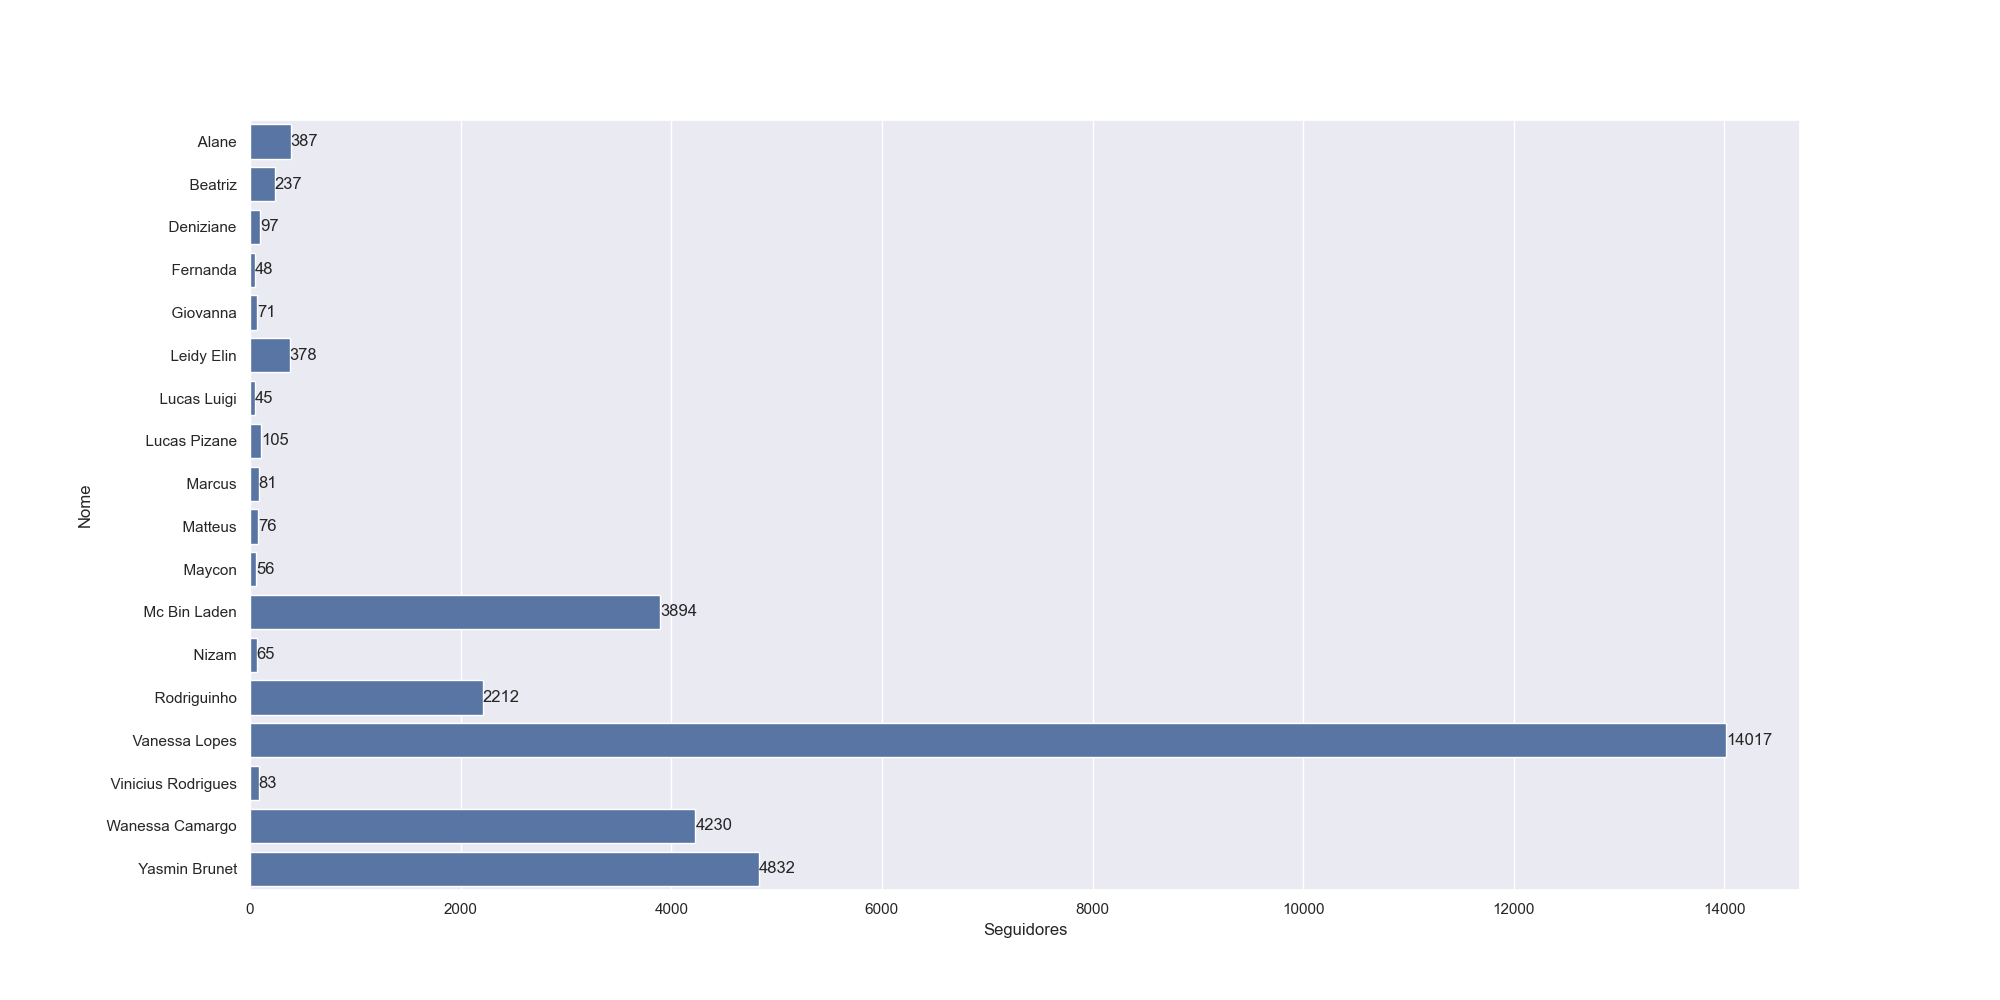
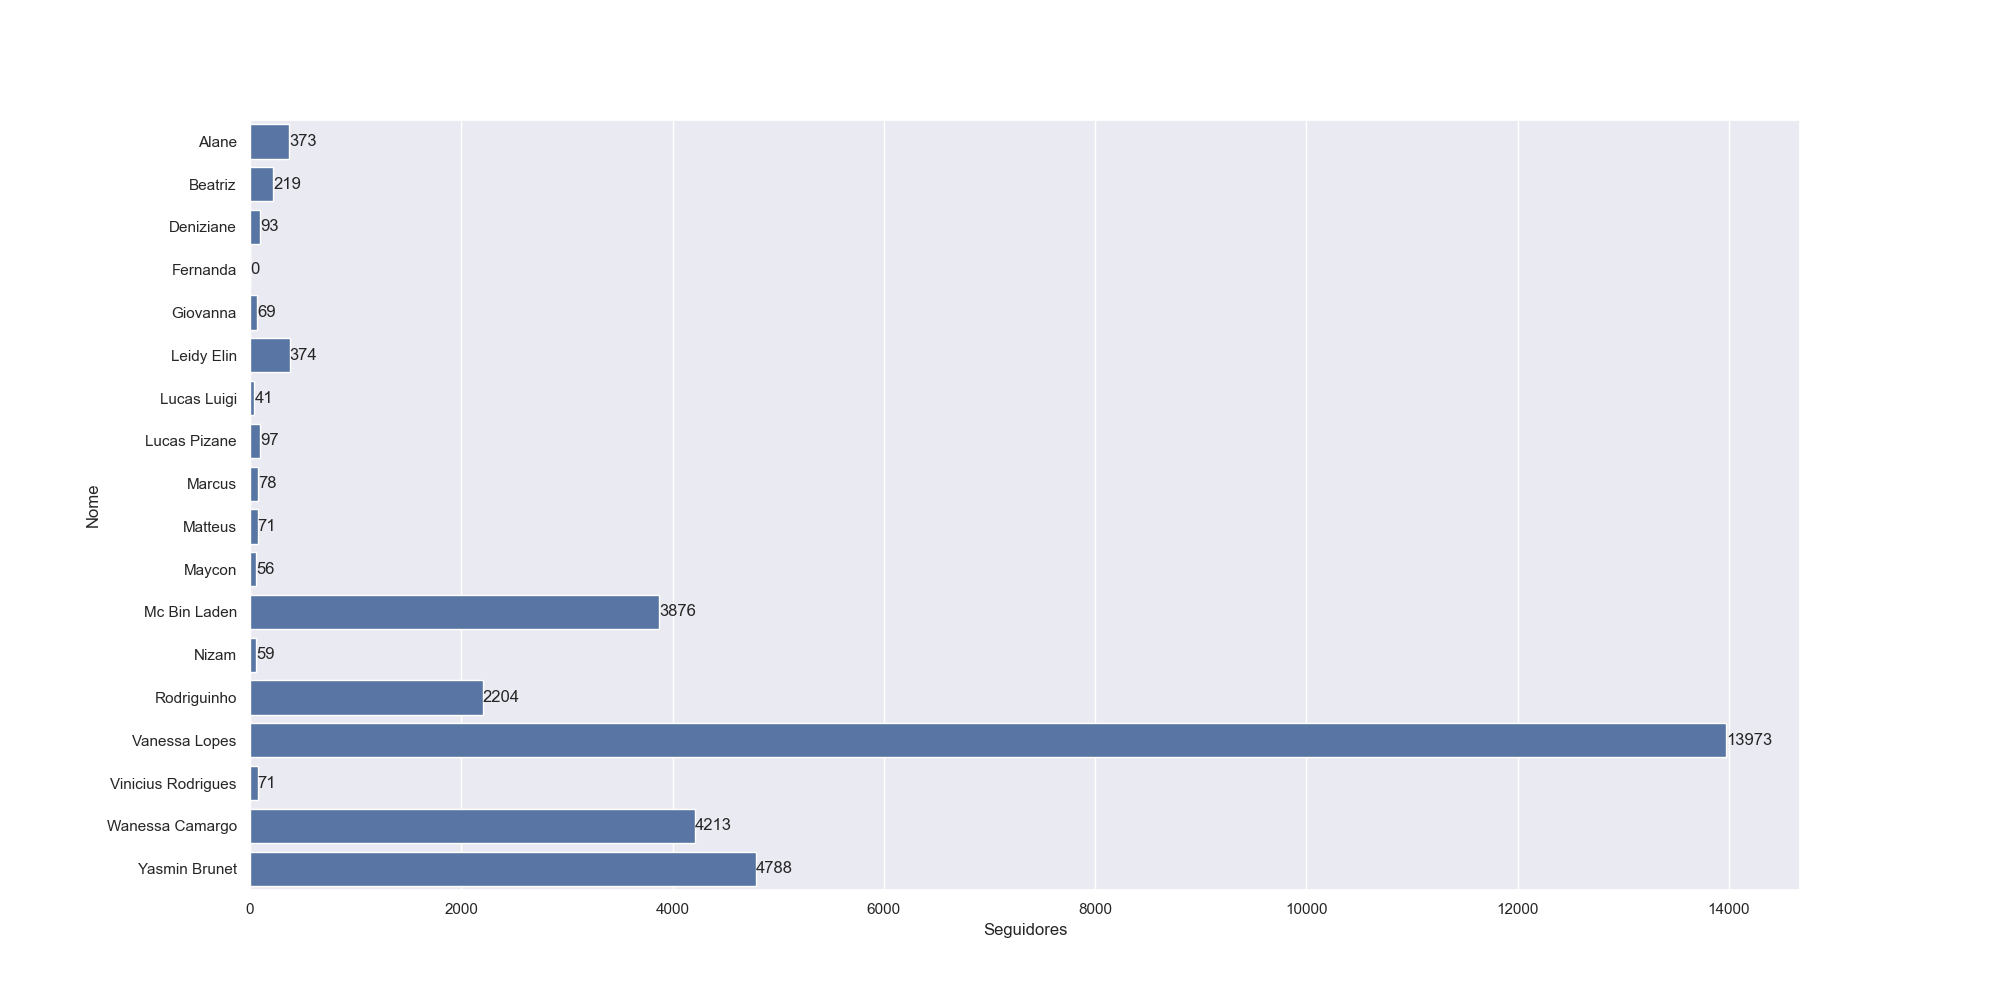
fix: correção dados incorretos

diff --git a/utils/feed_database.py b/utils/feed_database.py
@@ -16,8 +16,8 @@ def create_dataframe(current_date, brothers):
         new_df = pd.DataFrame(list(map(lambda b: [b.Id, b.Name, b.Followers], brothers)))
         df[current_date] = new_df[2]
     else:
-        df = pd.DataFrame(list(map(lambda b: [b.Id, b.Name, b.Followers], brothers)))
-        df.columns = ['Id', 'Nome', current_date]
+        df = pd.DataFrame(list(map(lambda b: [b.Id, b.Name.strip(), b.Followers], brothers)))
+        df.columns = ['Id', 'Nome', '2024-01-08']
 
     print(df)
     return df
@@ -42,10 +42,10 @@ def write_documents(current_date, brothers, dataframe, graphic_figure):
     graphic_figure.savefig(f'../data/bbb_instagram.png')
     with open(f'../data/bbb_instagram.txt', "w") as file:
         for item in brothers:
-            file.write(f'{item}\n')
+            file.write(f'{item.Id},{item.Name},{item.Instagram_username},{item.Followers},{item.Url_image}')
     with open(f'../backup/bbb_instagram_{current_date}.txt', "w") as file:
         for item in brothers:
-            file.write(f'{item}\n')
+            file.write(f'{item.Id},{item.Name},{item.Instagram_username},{item.Followers},{item.Url_image}')
 
 
 def execute():
@@ -53,8 +53,8 @@ def execute():
     pd.set_option('display.width', 1000)
 
     current_date = str(date.today())
-    # brothers = LoadData.load_data_file()
-    brothers = LoadData.load_data_intagram()
+    brothers = LoadData.load_data_file()
+    # brothers = LoadData.load_data_intagram()
     dataframe = create_dataframe(current_date, brothers)
     graphic_figure = create_graphic(brothers)
     write_documents(current_date, brothers, dataframe, graphic_figure)

diff --git a/config/ConfigIntagram.py b/config/ConfigIntagram.py
@@ -174,15 +174,15 @@ class ConfigInstagram:
                           '/AUTH_e84042ef78cb4708aeebdf1c68c6cbd6/internal_photos/bs/2024/T/i/YF72BOQO2QXGWky3avTA'
                           '/cabecograma-330x270-0018-2-yasmin.png'
             ),
-            # User(
-            #     id=19,
-            #     name='Gabriel Santana',
-            #     instagram_username='gbielsantana',
-            #     followers=profile.from_username(bot.context, 'gbielsantana').followers,
-            #     url_image='https://s2.glbimg.com/hnfJZ0wgKyySKyfXqlLX7CwZ7Ug=/i.s3.glbimg.com/v1'
-            #               '/AUTH_e84042ef78cb4708aeebdf1c68c6cbd6/internal_photos/bs/2023/x/p/esEdQlQPmY5U1C2KAGmQ'
-            #               '/gabriel-santana-foto-330-270-bbb23.png'
-            # ),
+            User(
+                id=19,
+                name='Gabriel Santana',
+                instagram_username='gbielsantana',
+                followers=profile.from_username(bot.context, 'gbielsantana').followers,
+                url_image='https://s2.glbimg.com/hnfJZ0wgKyySKyfXqlLX7CwZ7Ug=/i.s3.glbimg.com/v1'
+                          '/AUTH_e84042ef78cb4708aeebdf1c68c6cbd6/internal_photos/bs/2023/x/p/esEdQlQPmY5U1C2KAGmQ'
+                          '/gabriel-santana-foto-330-270-bbb23.png'
+            ),
             # User(
             #     id=20,
             #     name='Amanda',

diff --git a/utils/LoadData.py b/utils/LoadData.py
@@ -17,6 +17,6 @@ class LoadData:
             for item in file:
                 if item.strip() != '':
                     brother = item.split(',')
-                    brother = User(brother[0], brother[1], brother[2], int(brother[3]), brother[4])
+                    brother = User(brother[0], brother[1].strip(), brother[2], int(brother[3]), brother[4])
                     brothers.append(brother)
         return brothers

diff --git a/teste.py b/teste.py
@@ -2,7 +2,7 @@ from bs4 import BeautifulSoup
 
 import requests
 
-
+from controllers import user_controller
 
 #
 # print(len(imgs))
@@ -14,3 +14,5 @@ import requests
 #         # resolve any relative urls to absolute urls using base URL
 #         src = requests.compat.urljoin(url, src)
 #         print(">>", src)
+
+user_controller.get_follower_history_brother("Rodriguinho")

diff --git a/model/User.py b/model/User.py
@@ -114,8 +114,8 @@ class User:
                     }
                 }
             return {'days': [], 'followers': []}
-        except Exception:
-            print("Exception in User on 'follower_history'")
+        except Exception as e:
+            print(f"Exception in User on 'follower_history' - {e}")
             return ""
 
     @staticmethod
